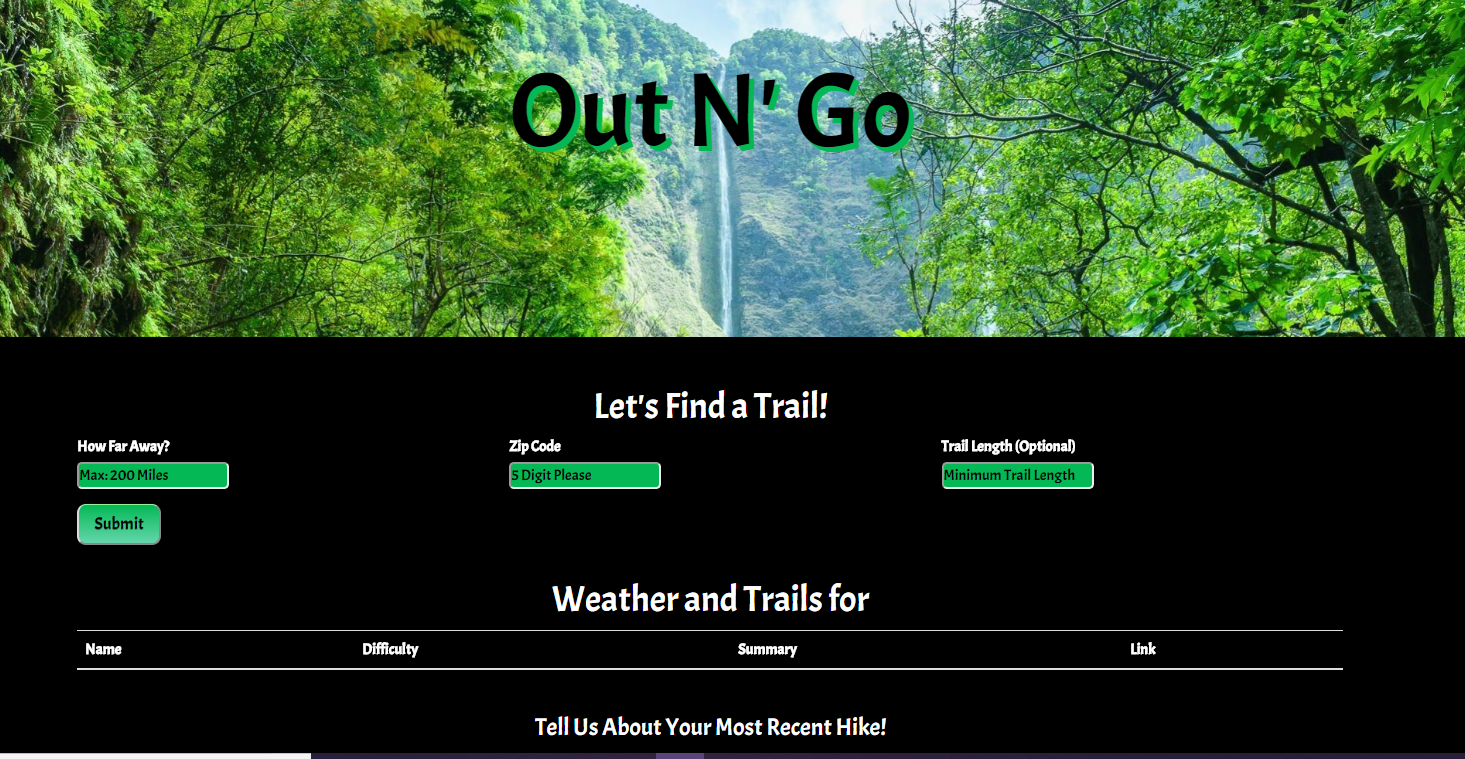
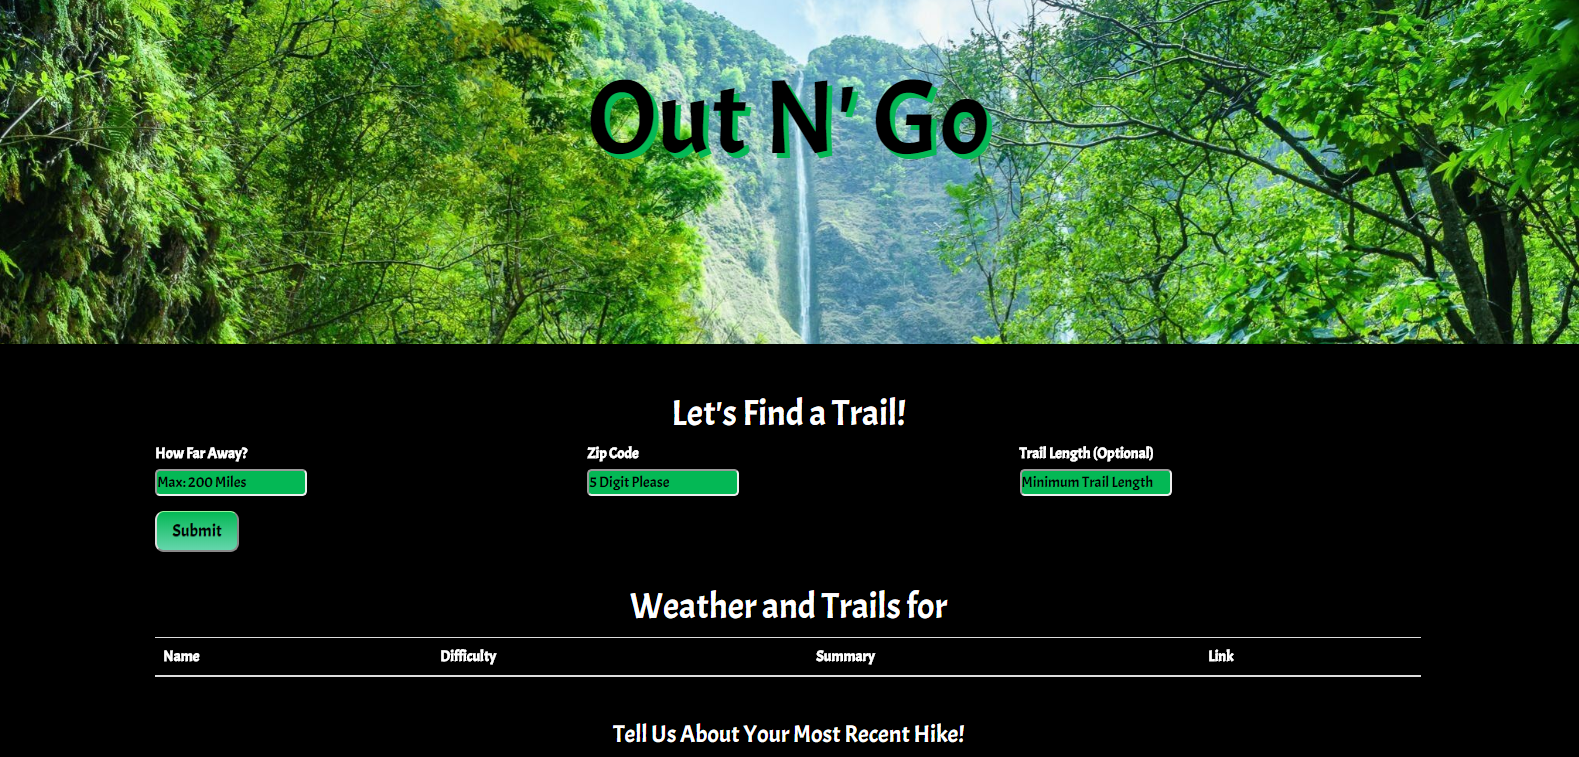
Change screen shot images

diff --git a/index.html b/index.html
@@ -476,8 +476,8 @@
             <a href="https://agile-earth-83708.herokuapp.com/" target="_blank">Accessible Travel</a>
             <div class="single-portfolio-item">
               <div class="portfolio-img">
-                <a href="img/portfolio/screenShotReadme.PNG" title="Accessible Travel" class="portfolio-lightbox">
-                  <img src="img/portfolio/screenShotReadme.PNG" alt="Accessible Travel">
+                <a href="img/portfolio/accessibleTravel.PNG" title="Accessible Travel" class="portfolio-lightbox">
+                  <img src="img/portfolio/accessibleTravel.PNG" alt="Accessible Travel">
                   <div class="portfolio-icon">
                     <i class="icofont icofont-plus"></i>
                   </div>
@@ -518,8 +518,8 @@
             <div class="single-portfolio-item">
               <div class="portfolio-img">
                 <a href="https://kimberlyhoward.github.io/projectOutNGo/" target="_blank">Out N Go</a>
-                <a href="img/portfolio/OutNGo.PNG" title="portfolio-image" class="portfolio-lightbox">
-                  <img src="img/portfolio/OutNGo.PNG" alt="OutNGo">
+                <a href="img/portfolio/outNGo.PNG" title="portfolio-image" class="portfolio-lightbox">
+                  <img src="img/portfolio/outNGo.PNG" alt="OutNGo">
                   <div class="portfolio-icon">
                     <i class="icofont icofont-plus"></i>
                   </div>
@@ -534,6 +534,7 @@
 
           </div>
           <div class="col-md-4 col-sm-4 grid-item illustration ux">
+            <br>
             <br>
             <br>
             <!-- Train Schedule-portfolio-item start -->
@@ -563,8 +564,8 @@
 
                 <a href="https://kimberlyhoward.github.io/crystalGame/" target="_blank">Crystal Game</a>
 
-                <a href="img/portfolio/cryatalGame.PNG" title="portfolio-image" class="portfolio-lightbox">
-                  <img src="img/portfolio/cryatalGame.PNG" alt="">
+                <a href="img/portfolio/crystalCollectingGame.PNG" title="portfolio-image" class="portfolio-lightbox">
+                  <img src="img/portfolio/crystalCollectingGame.PNG" alt="">
                   <div class="portfolio-icon">
                     <i class="icofont icofont-plus"></i>
                   </div>

diff --git a/style.css b/style.css
@@ -900,7 +900,7 @@ textarea {
   position: relative;
   float: left;
   width:  300px;
-  height: 200px;
+  height: 150px;
   background-position: 50% 50%;
   background-repeat:   no-repeat;
   background-size:     cover;
